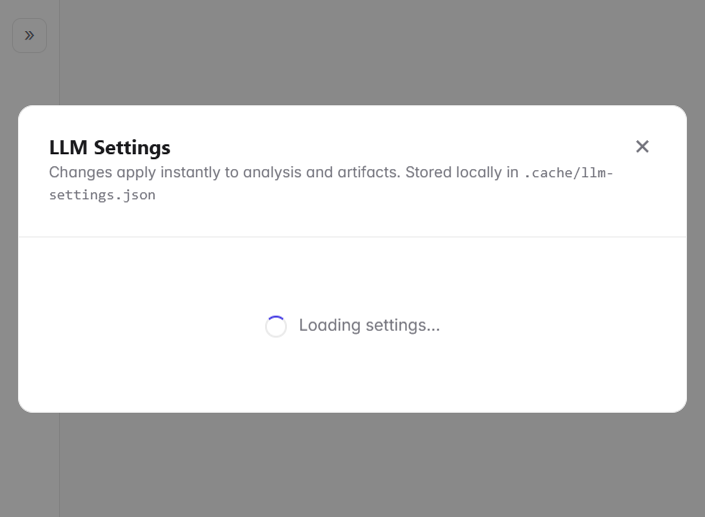
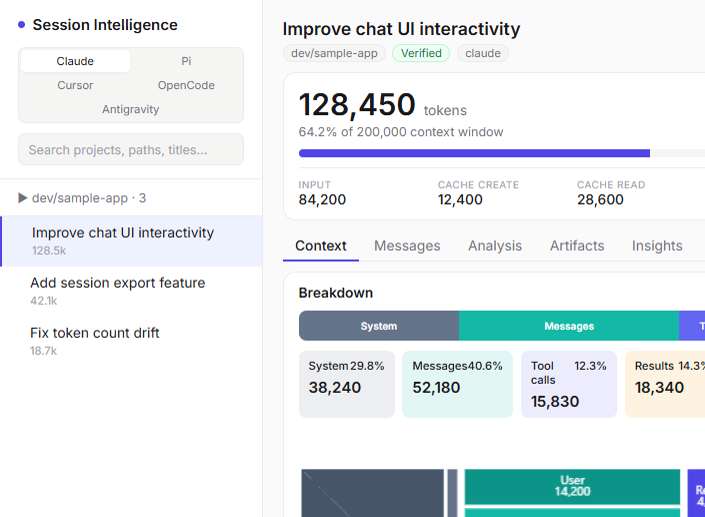
docs: update README product screenshot

diff --git a/README.md b/README.md
@@ -9,7 +9,7 @@ Local-first web app to **visualize and analyze agent sessions** from Claude Code
 
 Session data stays on your machine. Nothing is uploaded except LLM API calls you configure for Analysis and Governance.
 
-![Agent Session Intelligence — welcome screen](./docs/screenshots/welcome.png)
+![Agent Session Intelligence — context breakdown](./docs/screenshots/welcome.png)
 
 **Supported transcript sources:**
 
